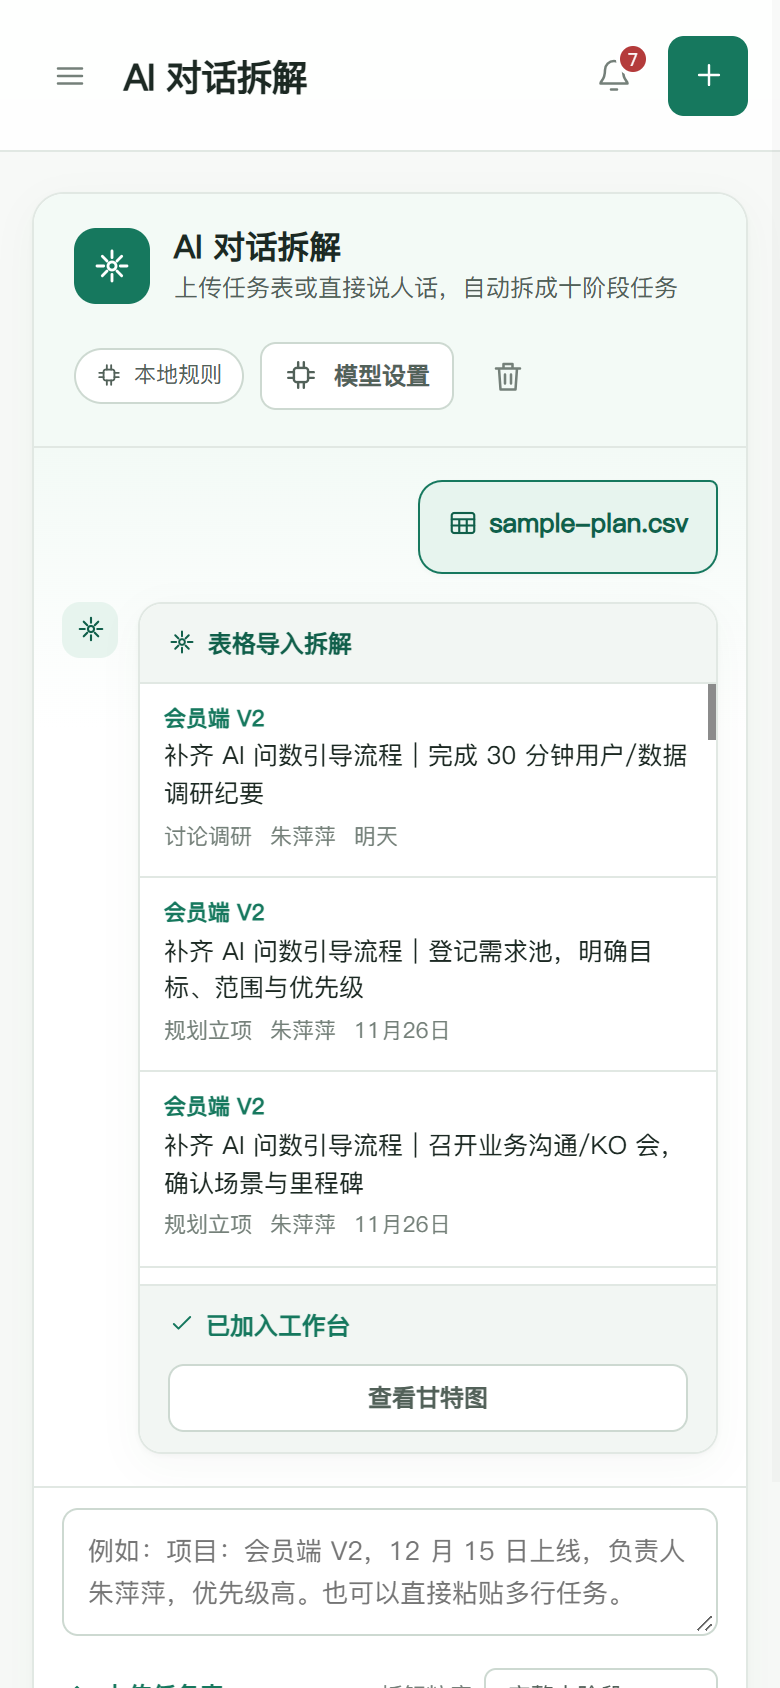
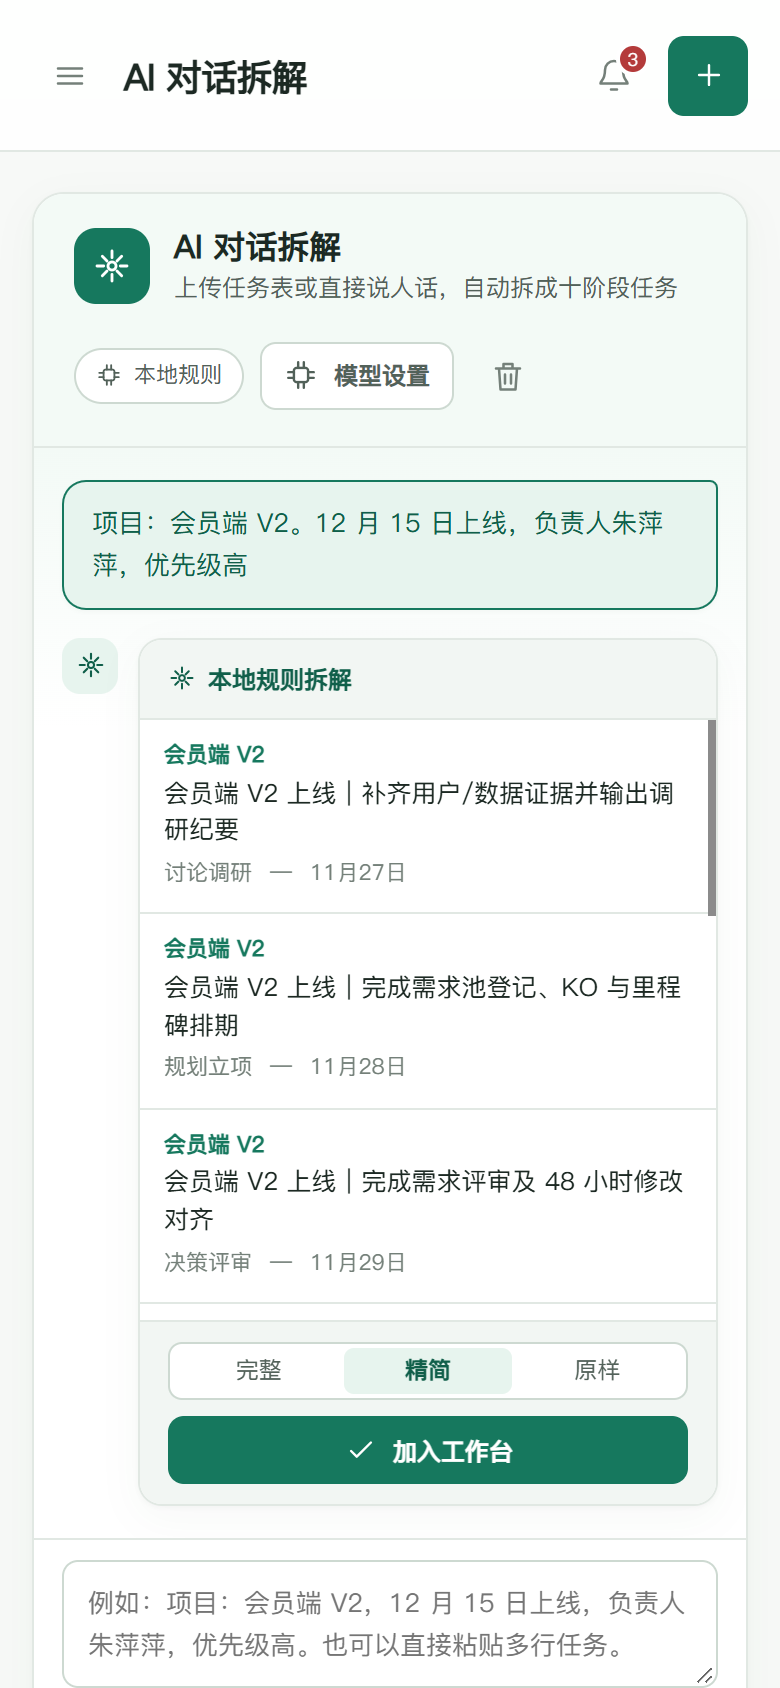
refactor: 对话拆解不再要求预先选择粒度，改为结果上按需切换
- 移除输入框旁的「拆解粒度」下拉，默认按完整十阶段拆解
- 预览卡新增 完整/精简/原样 分段切换，任务即时重算且不新增对话
- 支持「精简点」「按原样」等短句追问，直接调整上一条未入库预览
- 预览消息保存 entries/project/mode，刷新后仍可切换，入库后隐藏切换
- 修正解析：项目名允许空格（会员端 V2）、无冒号负责人写法、纯日期意图标题兜底

diff --git a/app.js b/app.js
@@ -169,7 +169,6 @@
     view: ["overview", "planning", "assistant", "automation", ...TYPES].includes(location.hash.slice(1)) ? location.hash.slice(1) : "overview",
     planning: { project: "all", status: "active" },
     assistantDraft: "",
-    assistantMode: "full",
     filters: Object.fromEntries(TYPES.map(type => [type, { query: "", status: "all", sort: "updated" }]))
   };
 
@@ -373,7 +372,11 @@
         at: text(message.at) || now(),
         engine: text(message.engine),
         fileName: text(message.fileName),
-        tasks: Array.isArray(message.tasks) ? message.tasks : []
+        tasks: Array.isArray(message.tasks) ? message.tasks : [],
+        entries: Array.isArray(message.entries) ? message.entries.filter(entry => entry && text(entry.title).trim()) : [],
+        project: text(message.project),
+        mode: ["full", "light", "original"].includes(message.mode) ? message.mode : "",
+        committed: Boolean(message.committed)
       }))
     };
     result.t5tReports = Array.isArray(source.t5tReports) ? source.t5tReports.filter(report => report && /^\d{4}-\d{2}-\d{2}$/.test(report.date) && text(report.markdown)).map((report, index) => ({
@@ -842,25 +845,62 @@
       const stripped = trimmed.replace(/^(?:[-*•+·]|\(?\d{1,2}[).、]|[①②③④⑤⑥⑦⑧⑨⑩])\s*/, "").trim();
       if (!stripped) return;
       const parts = [];
-      stripped.split(/[;；]+/).forEach(piece => {
-        if (/。/.test(piece)) piece.split(/。+/).forEach(sub => parts.push(sub));
-        else parts.push(piece);
-      });
+      stripped.split(/[;；]+/).forEach(piece => piece.split(/。+/).forEach(sub => parts.push(sub)));
       parts.forEach(part => {
         const clean = part.trim().replace(/^[，,、\s：:]+/, "");
-        if (clean.replace(/\s/g, "").length >= 2) segments.push(clean);
+        if (clean.replace(/\s/g, "").length < 2) return;
+        // 「项目：X」这类纯声明交由标题清洗判定，清洗后为空自然被跳过
+        segments.push(clean);
       });
     });
     return segments;
   }
 
+  function cleanEntryTitle(segment) {
+    let title = text(segment)
+      .replace(/项目(?:名称|名)?\s*[:：]\s*[^，,；;。\n]+/g, "")
+      .replace(/(?:负责人|责任人|Owner)\s*[:：]?\s*[\u4e00-\u9fa5A-Za-z0-9_]{2,6}(?=[\s，,；;。、]|$)/gi, "")
+      .replace(/(?:负责人|责任人|Owner)\s*[:：]\s*[^，,；;。\n]+/gi, "")
+      .replace(/@[\u4e00-\u9fa5A-Za-z0-9_]{1,12}/g, "")
+      .replace(/(?:优先级|重要程度)\s*[:：]?\s*(?:最高|高|中|低|紧急)?/g, "")
+      .replace(/^(?:需求|事项|任务|日程|安排|上线时间|发布时间|时间|上线|发布)\s*[:：]\s*/, "");
+    title = title
+      .replace(/(?:定在|定于|计划在|安排在|排期在|预计在?)\s*/g, " ")
+      .replace(DATE_PATTERN, " ")
+      .replace(/^[\s，,、：:]+/, "")
+      .replace(/[\s，,、：:]+$/, "")
+      .replace(/\s{2,}/g, " ")
+      .trim();
+    // 只剩动作词（如「上线」）说明这句只表达了时间意图，返回 null 交给项目兜底
+    if (/^(?:上线|发布|完成|交付|验收|评审|立项|启动|做|搞)$/.test(title)) return null;
+    return title;
+  }
+
+  function cleanProjectName(value) {
+    return text(value)
+      .replace(/\s*(?:负责人|责任人|优先级|重要程度|当前阶段|阶段|开始|截止|工期).*$/, "")
+      .replace(/[\s，,、：:。;；]+$/, "")
+      .trim();
+  }
+
   function detectDefaultProject(raw) {
     const content = text(raw);
-    let match = content.match(/项目(?:名称|名)?\s*[:：]\s*([^\s，,；;。\n]+)/);
-    if (match) return match[1].trim();
+    let match = content.match(/项目(?:名称|名)?\s*[:：]\s*([^，,；;。\n]+)/);
+    if (match) return cleanProjectName(match[1]);
     match = content.match(/【([^】]{2,20})】/);
     if (match) return match[1].trim();
     return "";
+  }
+
+  // 兜底清洗：只去掉标签，保留用户原话，避免整行被判成空
+  function mildEntryTitle(segment) {
+    return text(segment)
+      .replace(/项目(?:名称|名)?\s*[:：]\s*/g, "")
+      .replace(/(?:负责人|责任人|Owner)\s*[:：]\s*/gi, "")
+      .replace(/(?:优先级|重要程度)\s*[:：]?\s*(?:最高|高|中|低|紧急)?/g, "")
+      .replace(/@[\u4e00-\u9fa5A-Za-z0-9_]{1,12}/g, "")
+      .replace(/\s+/g, " ")
+      .trim();
   }
 
   function detectOwner(raw) {
@@ -883,7 +923,7 @@
     const mode = options.mode || "full";
     const segments = splitTaskSegments(input);
     if (!segments.length) throw new Error("没读到可拆解的内容，请用一行一件事的方式描述");
-    const defaultProject = options.projectName || detectDefaultProject(input) || `对话拆解 ${base}`;
+    const defaultProject = options.projectName || detectDefaultProject(input) || `对话拆解 ${base.slice(5)}`;
     const entries = segments.map(segment => {
       const dates = findDatesInText(segment, base);
       let startDate = "";
@@ -903,14 +943,18 @@
       }
       const ownerInSegment = detectOwner(segment);
       const stageHit = LIFECYCLE_STAGES.find(stage => segment.includes(stage)) || "";
-      const title = segment
-        .replace(/项目(?:名称|名)?\s*[:：]\s*[^\s，,；;。]+/g, "")
-        .replace(/负责人\s*[:：]\s*[^\s，,；;。]+/g, "")
-        .replace(/@[\u4e00-\u9fa5A-Za-z0-9_]{1,12}/g, "")
-        .replace(/\s+/g, " ")
-        .trim();
+      let title = cleanEntryTitle(segment);
+      if (title === "") {
+        const mild = mildEntryTitle(segment);
+        const isProjectOnly = mild && mild.replace(/\s/g, "") === defaultProject.replace(/\s/g, "");
+        if (mild && !isProjectOnly) title = mild;
+      }
+      if (title === null) title = "";
+      // 只剩「12 月 15 日上线」这类纯时间意图时，用「项目 + 动作」兜底
+      if (!title) title = /(上线|发布)/.test(segment) ? `${defaultProject} 上线` : stageHit ? `${defaultProject} ${stageHit}` : "";
+      if (!title) return null;
       return {
-        title: title || segment,
+        title,
         project: "",
         startDate,
         dueDate,
@@ -920,13 +964,61 @@
         sourceNote: "来源：AI 对话拆解",
         detail: ""
       };
-    });
+    }).filter(Boolean);
+    if (!entries.length) throw new Error("没读到可拆解的事项，请补充一句具体要做什么");
+    return { entries, defaultProject, mode, segments: entries.length };
+  }
+
+  // 从「输入里有没有说粒度」推断：默认完整，用户说了才听用户的
+  function detectGranularity(input) {
+    const line = text(input);
+    if (/(不要拆|别拆|原样|保留原任务|照抄|只记录|就记一下)/.test(line)) return "original";
+    if (/(精简|简单点|简单些|粗略|粗一点|每阶段一个|不要那么细|不要这么细|别那么细)/.test(line)) return "light";
+    return "full";
+  }
+
+  // 短句追问（如「精简点」「按原样」）用于调整上一条未入库的预览
+  function granularityFromFollowUp(input) {
+    const line = text(input).replace(/[\s。！!，,、~]/g, "");
+    if (!line || line.length > 10) return "";
+    const bare = line.replace(/^(?:再|按|改|换|用|给我)+/, "");
+    if (/^(原样|保留原任务|不要拆了?|别拆了?)$/.test(bare)) return "original";
+    if (/^(精简|简单|粗略|粗)(一?[点些下])?$/.test(bare)) return "light";
+    if (/^(详细|完整|展开|全一点|全一些)(一?[点些下])?$/.test(bare)) return "full";
+    return "";
+  }
+
+  function buildTasksFromEntries(entries, project, mode) {
     const tasks = [];
-    entries.forEach(entry => {
-      tasks.push(...expandEntry(entry, { mode, scope: "all", defaultProject }));
-    });
+    (entries || []).forEach(entry => tasks.push(...expandEntry(entry, { mode, scope: "all", defaultProject: project })));
     if (!tasks.length) throw new Error("没有生成任务，请补充具体事项名称");
-    return { tasks, defaultProject, segments: entries.length };
+    return tasks;
+  }
+
+  function pushPreview({ entries, project, mode, engine, text: line }) {
+    const tasks = buildTasksFromEntries(entries, project, mode);
+    pushAssistantMessage({
+      role: "assistant", kind: "preview", engine, text: line,
+      tasks, entries, project, mode
+    });
+  }
+
+  function setPreviewMode(messageId, mode) {
+    const message = (state.assistant?.messages || []).find(item => item.id === messageId);
+    if (!message || message.committed) return;
+    if (!Array.isArray(message.entries) || !message.entries.length) {
+      showToast("这条预览是旧版本生成的，无法切换粒度，重新发一次即可", "error");
+      return;
+    }
+    if (message.mode === mode) return;
+    try {
+      message.tasks = buildTasksFromEntries(message.entries, message.project, mode);
+      message.mode = mode;
+      saveState();
+      renderAssistantLog();
+    } catch (error) {
+      showToast(error.message, "error");
+    }
   }
 
   // ---------- 模型调用 ----------
@@ -1006,6 +1098,9 @@
       engine: text(message.engine),
       fileName: text(message.fileName),
       tasks: Array.isArray(message.tasks) ? message.tasks : [],
+      entries: Array.isArray(message.entries) ? message.entries : [],
+      project: text(message.project),
+      mode: ["full", "light", "original"].includes(message.mode) ? message.mode : "",
       committed: false
     });
     if (state.assistant.messages.length > 40) state.assistant.messages = state.assistant.messages.slice(-40);
@@ -1021,7 +1116,7 @@
     return `<article class="chat-preview">
       <header class="chat-preview-head"><span class="chat-preview-badge">${icon("spark")}${escapeHtml(message.engine || "拆解结果")}</span><span class="chat-preview-meta">${tasks.length} 项任务 · ${projects.length} 个项目</span></header>
       <div class="chat-preview-body"><table class="chat-task-table"><thead><tr><th>项目</th><th>任务</th><th>阶段</th><th>负责人</th><th>截止</th></tr></thead><tbody>${rows}</tbody></table>${more}</div>
-      <footer class="chat-preview-foot">${message.committed ? `<span class="chat-committed">${icon("check")}已加入工作台</span><button class="btn btn-secondary btn-small" data-action="assistant-goto">查看甘特图</button>` : `<span class="chat-preview-hint">${escapeHtml(projects.join("、"))}</span><button class="btn btn-primary btn-small" data-action="assistant-commit" data-msg="${escapeHtml(message.id)}">${icon("check")}加入工作台</button>`}</footer>
+      <footer class="chat-preview-foot">${message.committed ? `<span class="chat-committed">${icon("check")}已加入工作台</span><button class="btn btn-secondary btn-small" data-action="assistant-goto">查看甘特图</button>` : `<div class="mode-switch" role="group" aria-label="拆解粒度">${[["full", "完整"], ["light", "精简"], ["original", "原样"]].map(([value, label]) => `<button type="button" data-action="assistant-mode" data-msg="${escapeHtml(message.id)}" data-mode="${value}" class="${(message.mode || "full") === value ? "active" : ""}" aria-pressed="${(message.mode || "full") === value}">${label}</button>`).join("")}</div><button class="btn btn-primary btn-small" data-action="assistant-commit" data-msg="${escapeHtml(message.id)}">${icon("check")}加入工作台</button>`}</footer>
     </article>`;
   }
 
@@ -1086,7 +1181,7 @@
         <div class="composer-bar">
           <div class="composer-left">
             <button type="button" class="text-btn" data-action="assistant-upload">${icon("upload")}上传任务表</button>
-            <label class="composer-mode"><span>拆解粒度</span><select id="assistantMode">${[["full", "完整十阶段"], ["light", "每阶段一个动作"], ["original", "保留原任务"]].map(([value, label]) => `<option value="${value}" ${selected(ui.assistantMode || "full", value)}>${label}</option>`).join("")}</select></label>
+            <span class="composer-hint">默认按完整十阶段拆解，结果里可随时切换粒度</span>
           </div>
           <button type="submit" class="btn btn-primary btn-small">${icon("send")}拆解</button>
         </div>
@@ -1103,11 +1198,11 @@
       const mapping = autoMapping(parsed.headers);
       if (!mapping.title) throw new Error("表格里没识别到「规划事项 / 需求」列，请到「项目规划 → 导入规划表」手动指定列名后再拆解");
       const fallbackProject = file.name.replace(/\.[^.]+$/, "") || "对话拆解";
-      const tasks = [];
+      const entries = [];
       parsed.rows.forEach((row, rowIndex) => {
         const title = text(row[mapping.title]).trim();
         if (!title) return;
-        tasks.push(...expandEntry({
+        entries.push({
           title,
           project: text(mapping.project ? row[mapping.project] : "").trim() || fallbackProject,
           startDate: parseImportedDate(row[mapping.start]),
@@ -1118,13 +1213,10 @@
           initialStatus: statusFrom(mapping.status ? row[mapping.status] : "", false),
           sourceNote: `来源：${file.name} 第 ${rowIndex + 2} 行`,
           detail: text(mapping.description ? row[mapping.description] : "")
-        }, { mode: ui.assistantMode || "full", scope: "all", defaultProject: fallbackProject }));
+        });
       });
-      if (!tasks.length) throw new Error("表格里没有可拆解的行");
-      pushAssistantMessage({
-        role: "assistant", kind: "preview", engine: "表格导入拆解",
-        text: `已识别 ${parsed.rows.length} 行规划，生成 ${tasks.length} 项任务。`, tasks
-      });
+      if (!entries.length) throw new Error("表格里没有可拆解的行");
+      pushPreview({ entries, project: fallbackProject, mode: "full", engine: "表格导入拆解", text: `已识别 ${parsed.rows.length} 行规划。` });
     } catch (error) {
       pushAssistantMessage({ role: "assistant", kind: "error", text: `表格拆解失败：${error.message || "格式不正确"}` });
     }
@@ -1145,6 +1237,20 @@
     if (inputEl) inputEl.value = "";
     pushAssistantMessage({ role: "user", kind: "text", text: input });
 
+    // 短句追问：直接调整上一条未入库的预览，不再重复生成
+    const followUp = granularityFromFollowUp(input);
+    if (followUp) {
+      const lastPreview = [...(state.assistant?.messages || [])].reverse().find(item => item.kind === "preview" && !item.committed && Array.isArray(item.entries) && item.entries.length);
+      if (lastPreview) {
+        setPreviewMode(lastPreview.id, followUp);
+        pushAssistantMessage({
+          role: "assistant", kind: "text",
+          text: `已按「${followUp === "full" ? "完整十阶段" : followUp === "light" ? "每阶段一个动作" : "保留原任务"}」重新拆解，共 ${lastPreview.tasks.length} 项任务。`
+        });
+        return;
+      }
+    }
+
     if (modelConfigured()) {
       const log = document.getElementById("assistantLog");
       const pending = document.createElement("div");
@@ -1155,11 +1261,11 @@
       try {
         const result = await requestModelDecomposition([...assistantHistoryForModel(), { role: "user", content: input }]);
         const config = loadModelConfig();
-        const tasks = [];
-        result.items.forEach(item => tasks.push(...expandEntry(item, { mode: ui.assistantMode || "full", scope: "all", defaultProject: item.project || detectDefaultProject(input) || `对话拆解 ${chinaToday()}` })));
+        const entryProject = result.items.find(item => item.project)?.project || detectDefaultProject(input) || `对话拆解 ${chinaToday()}`;
+        const normalized = result.items.map(item => ({ ...item, project: item.project || entryProject }));
         pending.remove();
         if (result.reply) pushAssistantMessage({ role: "assistant", kind: "text", text: result.reply });
-        pushAssistantMessage({ role: "assistant", kind: "preview", engine: `模型：${config.model}`, tasks });
+        pushPreview({ entries: normalized, project: entryProject, mode: detectGranularity(input), engine: `模型：${config.model}` });
         return;
       } catch (error) {
         pending.remove();
@@ -1168,10 +1274,11 @@
     }
 
     try {
-      const result = decomposeFromText(input, { mode: ui.assistantMode || "full" });
-      pushAssistantMessage({
-        role: "assistant", kind: "preview", engine: modelConfigured() ? "本地规则拆解（模型失败后回退）" : "本地规则拆解",
-        text: `识别到 ${result.segments} 条规划，生成 ${result.tasks.length} 项任务。`, tasks: result.tasks
+      const result = decomposeFromText(input);
+      pushPreview({
+        entries: result.entries, project: result.defaultProject, mode: detectGranularity(input),
+        engine: modelConfigured() ? "本地规则拆解（模型失败后回退）" : "本地规则拆解",
+        text: `识别到 ${result.segments} 条规划。`
       });
     } catch (error) {
       pushAssistantMessage({ role: "assistant", kind: "error", text: error.message });
@@ -2012,6 +2119,7 @@
       document.getElementById("assistantInput")?.focus();
     }
     if (action === "assistant-commit") commitAssistantMessage(button.dataset.msg);
+    if (action === "assistant-mode") setPreviewMode(button.dataset.msg, button.dataset.mode);
   });
 
   main.addEventListener("change", event => {
@@ -2022,7 +2130,6 @@
     if (input.id === "projectFilter") { ui.planning.project = input.value; render(); }
     if (input.id === "ganttStatus") { ui.planning.status = input.value; render(); }
     if (input.id === "reminderTime") { state.settings.reminderTime = input.value || "09:00"; saveState(); showToast(`每日提醒时间已设为 ${state.settings.reminderTime}`); }
-    if (input.id === "assistantMode") { ui.assistantMode = input.value; saveState(); }
   });
 
   main.addEventListener("input", event => {

diff --git a/styles.css b/styles.css
@@ -744,15 +744,28 @@ code { padding: 2px 6px; border-radius: 5px; background: var(--color-surface-sub
 .assistant-composer textarea:focus { border-color: var(--color-primary); }
 .composer-bar { display: flex; align-items: center; justify-content: space-between; gap: 12px; margin-top: 10px; }
 .composer-left { display: flex; align-items: center; gap: 14px; min-width: 0; }
-.composer-mode { display: inline-flex; align-items: center; gap: 6px; color: var(--color-muted); font-size: 11.5px; white-space: nowrap; }
-.composer-mode select {
-  padding: 4px 7px;
+.composer-hint { color: var(--color-muted); font-size: 11.5px; white-space: nowrap; overflow: hidden; text-overflow: ellipsis; }
+
+.mode-switch {
+  display: inline-flex;
+  padding: 2px;
   border: 1px solid var(--color-border-strong);
-  border-radius: 6px;
+  border-radius: 7px;
   background: var(--color-surface);
+  flex: 0 0 auto;
+}
+.mode-switch button {
+  padding: 3px 10px;
+  border: 0;
+  border-radius: 5px;
+  background: transparent;
   color: var(--color-text-secondary);
   font-size: 11.5px;
+  line-height: 1.5;
+  transition: background var(--transition), color var(--transition);
 }
+.mode-switch button:hover { color: var(--color-primary-hover); }
+.mode-switch button.active { background: var(--color-primary-soft); color: var(--color-primary-hover); font-weight: 600; }
 .field-note {
   grid-column: 1 / -1;
   margin: 0;
@@ -771,11 +784,14 @@ code { padding: 2px 6px; border-radius: 5px; background: var(--color-surface-sub
   .chat-stack { max-width: 100%; }
   .assistant-composer { padding: 10px 14px 12px; }
   .composer-bar { flex-direction: column; align-items: stretch; }
-  .composer-left { justify-content: space-between; }
+  .composer-left { justify-content: space-between; flex-wrap: wrap; gap: 6px; }
+  .composer-hint { white-space: normal; }
   .composer-bar .btn { width: 100%; justify-content: center; }
   .chat-preview-meta { display: none; }
-  .chat-preview-foot { flex-direction: column; align-items: stretch; }
+  .chat-preview-foot { flex-direction: column; align-items: stretch; gap: 8px; }
   .chat-preview-foot .btn { width: 100%; justify-content: center; }
+  .mode-switch { display: flex; width: 100%; }
+  .mode-switch button { flex: 1; text-align: center; justify-content: center; }
   .chat-preview-hint { white-space: normal; }
   .chat-preview-body { max-height: 300px; overflow-x: hidden; }
   .chat-task-table, .chat-task-table tbody, .chat-task-table tr, .chat-task-table td { display: block; width: 100%; }

diff --git a/README.md b/README.md
@@ -92,7 +92,9 @@ python -m http.server 8080
 
 支持 `2026-12-15`、`12 月 15 日`、`12/15`、`今天 / 明天 / 后天 / N 天后 / N 周后`、`本周五 / 下周一 / 下下周三`、`本月底 / 下月底`。一句话里出现两个日期时按「开始 → 截止」处理；只出现一个日期时作为截止/上线日期，起点自动往前推。所有日期按 Asia/Shanghai 计算。
 
-拆解后延续你的工作纪律：上线任务自动落到**周一**、复盘固定在上线后 **14 天**，并补齐调研纪要、评审后 48 小时对齐、发布准备、分层培训等环节。粒度可切「完整十阶段 / 每阶段一个动作 / 保留原任务」。
+拆解后延续你的工作纪律：上线任务自动落到**周一**、复盘固定在上线后 **14 天**，并补齐调研纪要、评审后 48 小时对齐、发布准备、分层培训等环节。
+
+**关于拆解粒度**：对话里**不需要先选粒度**，默认按完整十阶段拆。生成后如果觉得太细或太粗，直接在预览卡上点「完整 / 精简 / 原样」切换，任务会即时重算；也可以回一句「精简点」「按原样」来调整上一条预览。只有你说出来（或点了按钮）才会变，不会在动手前先拦你一道。
 
 ### 结果入库
 
@@ -169,6 +171,7 @@ python -m http.server 8080
 - [ ] WorkBuddy 中不存在与工作台重复的每日 T5T 自动化。
 - [ ] 桌面与窄屏布局均可用；窄屏侧边栏默认收起，甘特图可横向滚动。
 - [ ] AI 拆解页可输入一句话生成拆解预览，包含周一上线与上线后 14 天复盘。
+- [ ] 预览卡可切「完整 / 精简 / 原样」三种粒度，切换后任务数变化且不新增对话。
 - [ ] AI 拆解页上传 XLSX/CSV 后能自动识别列并生成预览；列缺失时有明确提示。
 - [ ] 点击「加入工作台」后任务进入甘特图，按钮标记为已加入，不会重复写入。
 - [ ] 未配置模型时界面明确标注「本地规则」，配置模型失败会自动回退并提示。
